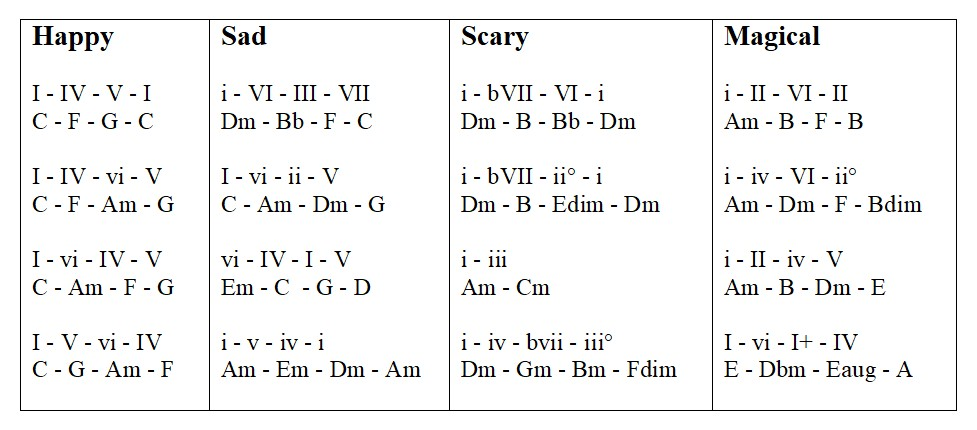
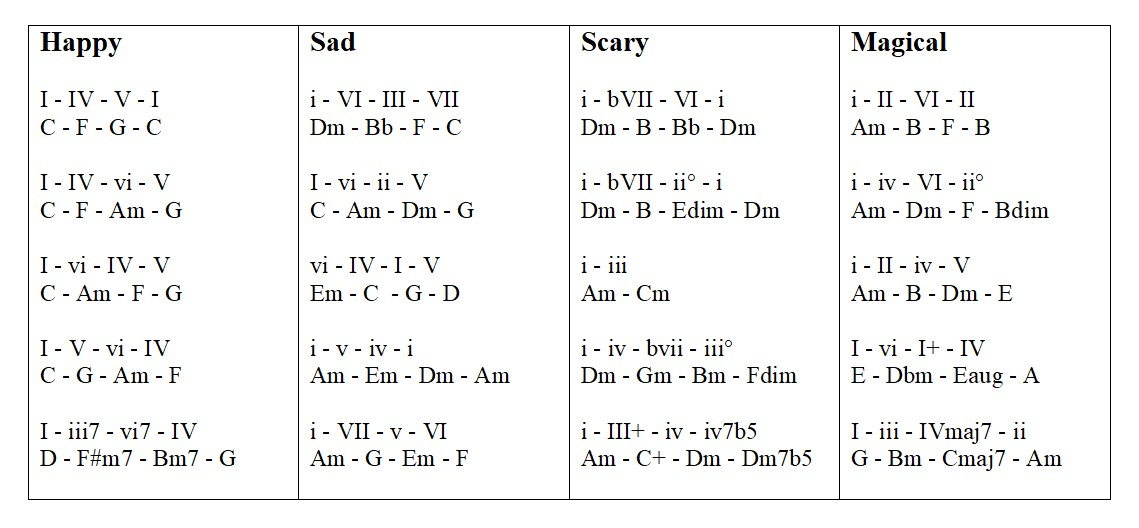
more chord progressions added and also added them to the guitar page

diff --git a/src/Modules/guitar.js b/src/Modules/guitar.js
@@ -5,6 +5,9 @@ class Guitar extends Instrument {
         super();
         this.a1 = `Behind some chords, there is an enharmonic equivalent in parentheses, which is more commonly known.`;
         this.a2 = `Behind some chords, there is an enharmonic equivalent in parentheses, which is more commonly known.`;
+        this.a3 = `Chord progressions are often notated with Roman numerals, which makes them key-independent.
+        Below every progression, there is an example with chords in a certain key, but the progressions can be transposed 
+        to any key.`;
         this.gi = `A Guitar has normally six strings and is tuned from low to high
         E A D G B E (open strings). When the guitar is held against the body,
         the string with the lowest note is above. The sound is produced by
@@ -29,6 +32,7 @@ class Guitar extends Instrument {
             articles: {
                 chords_in_major_keys: this.a1,
                 chords_in_minor_keys: this.a2,
+                chord_progressions_for_different_emotions: this.a3,
             },
             links: {
                 general: [
